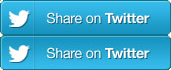
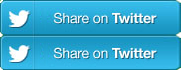
revisi subuh2 katanya mau diliat jam 9!

diff --git a/wp-content/themes/metaspace/assets/css/style.css b/wp-content/themes/metaspace/assets/css/style.css
@@ -331,7 +331,7 @@ code {
     width: 80%;
     color: #585858;
     font-size: 17px;
-    margin: 30px 20px 0 20px;
+    margin: 30px 10% 0 10%;
     line-height: 30px;
   }
 
@@ -399,7 +399,7 @@ code {
 
           a.btn-share-tw{
             background: url(../img/share-tw.png);
-            width: 171px;
+            width: 181px;
             height: 35px;
             margin: auto;
           }
@@ -741,6 +741,13 @@ have a fixed width and height (but it's not required).
         margin-top: 25px;
       }
 
+      @media(max-width: 450px){
+        .modal-butuh .modal-body > .col-md-6:first-child{
+          padding-right: 15px;
+          margin-top: 0;
+        }
+      }
+
       .modal-butuh .modal-body > .col-md-6:first-child > .col-md-6:last-child > img{
         margin-bottom: 20px;
       }
@@ -811,6 +818,18 @@ have a fixed width and height (but it's not required).
     padding-top: 20px;
     padding-bottom: 20px;
     margin-bottom: 15px;
+  }
+
+  @media (max-width: 768px){
+    #modal-dukung .col-md-3 .school-cont{
+      display: table-cell;
+      width: 129px;
+      height: 100px;
+      vertical-align: middle;
+    }
+    #modal-dukung .col-xs-6{
+      margin-bottom: 20px;
+    }
   }
 
   .school-pagination .pager{
